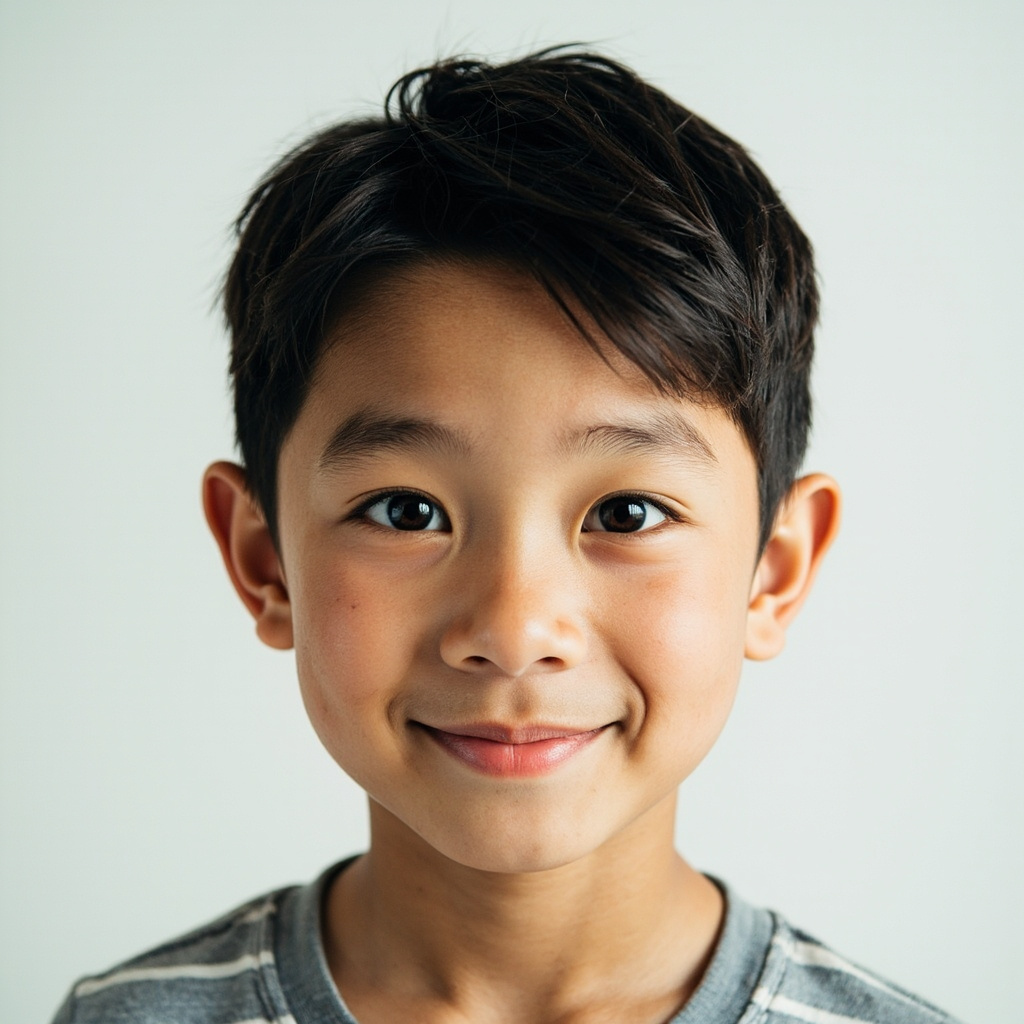
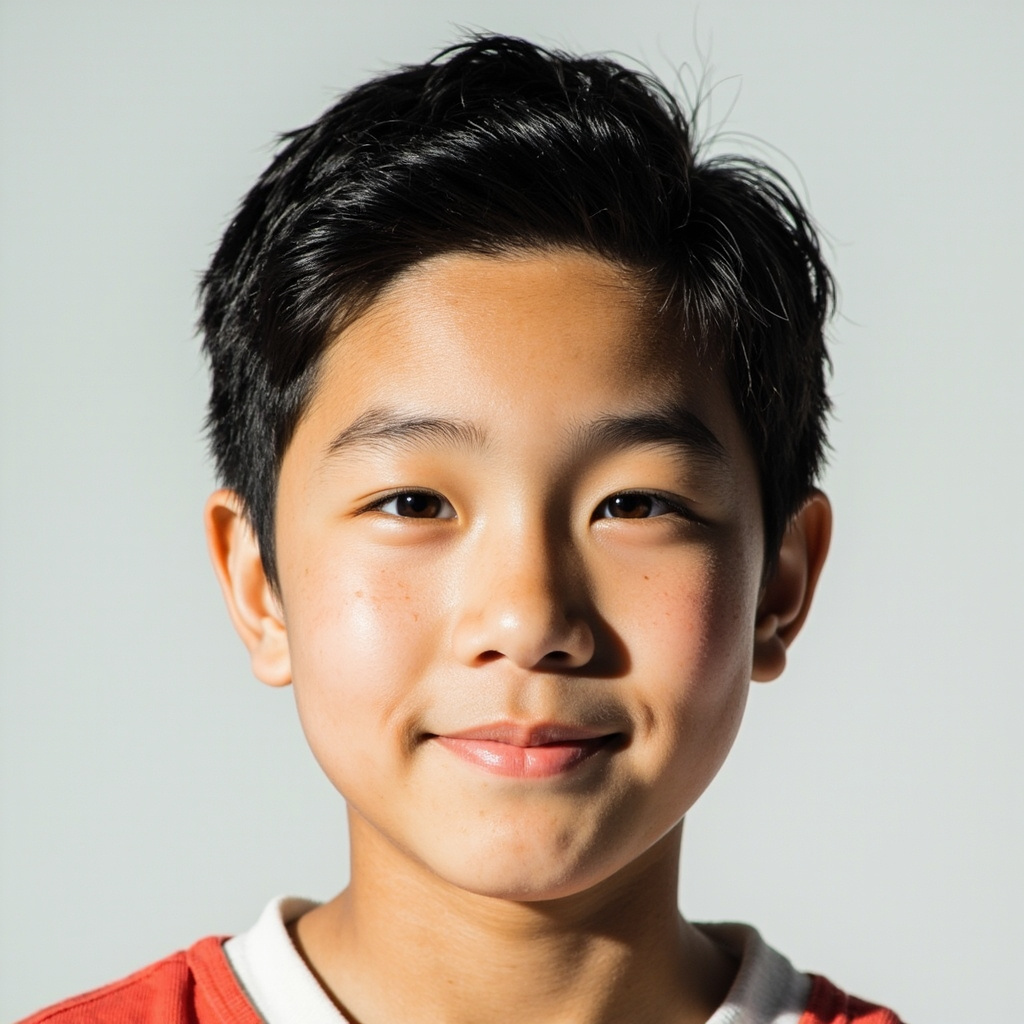
字卡哥哥/姐姐改大啲（約13-14歲少年），更似年長兄姐

diff --git a/games/flashcard-k1/gen_cards.py b/games/flashcard-k1/gen_cards.py
@@ -60,8 +60,8 @@ CARDS = [
     ("33","中","three identical same-size balls stacked in a vertical column on a plain white background, the MIDDLE ball bright red, the top and bottom balls plain grey, soft natural shadows"),
     ("34","爸","an East Asian Chinese adult man, a father about 35 years old, black hair, warm friendly smile, head and shoulders portrait, front view, realistic"),
     ("35","媽","an East Asian Chinese adult woman, a mother about 35 years old, black hair, gentle warm smile, clearly a grown-up woman not a child, head and shoulders portrait, front view, realistic"),
-    ("36","哥","an East Asian Chinese older brother, a boy about 8 years old, black hair, warm tan skin, friendly, head and shoulders portrait, front view, realistic"),
-    ("37","姐","an East Asian Chinese older sister, a girl about 8 years old, black hair, warm tan skin, friendly, head and shoulders portrait, front view, realistic"),
+    ("36","哥","an East Asian Chinese older brother, a teenage boy about 13 to 14 years old, black hair, warm tan skin, friendly, head and shoulders portrait, front view, realistic"),
+    ("37","姐","an East Asian Chinese older sister, a teenage girl about 13 to 14 years old, black hair, warm tan skin, friendly, head and shoulders portrait, front view, realistic"),
 ]
 
 def load_key():
